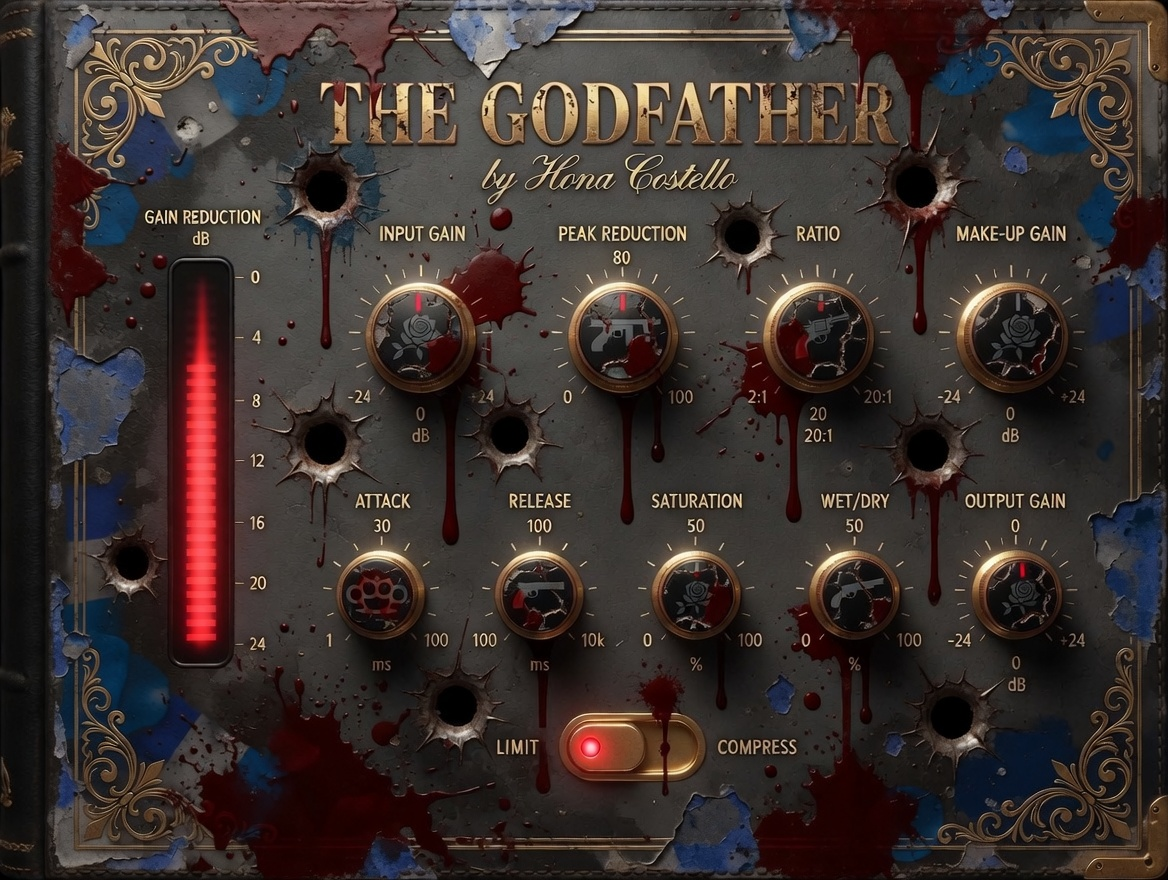
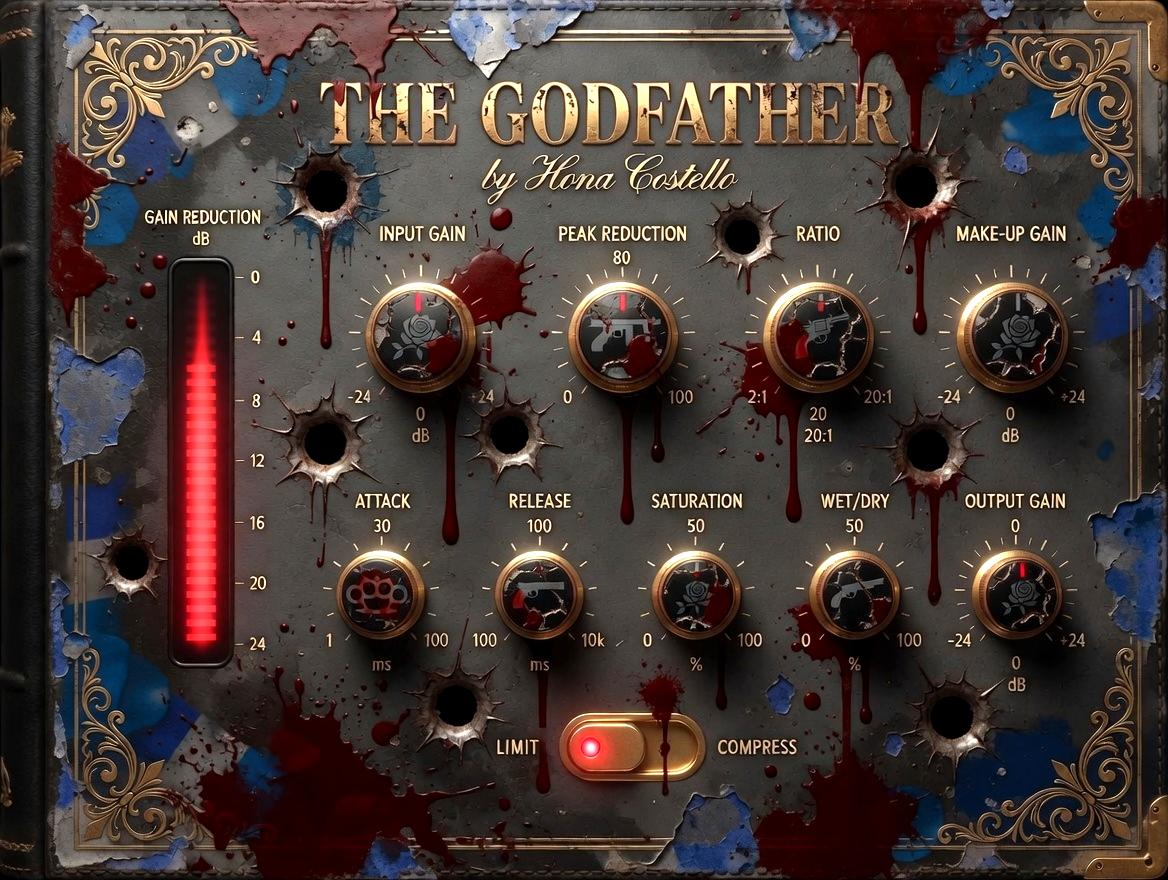
Visual Overhaul: Enhanced skin, perfect knob alignment, and improved indicators

diff --git a/Source/PluginEditor.cpp b/Source/PluginEditor.cpp
@@ -107,19 +107,19 @@ void OpticalCompressorAudioProcessorEditor::resized()
     wetDryLabel.setVisible(false);
     outputGainLabel.setVisible(false);
 
-    // Position sliders over the skin's knobs (Epic Skin coordinates)
-    setBoundsScaled(inputGainSlider, 310, 330, 110, 110);
-    setBoundsScaled(thresholdSlider, 485, 330, 110, 110); // "Peak Reduction"
-    setBoundsScaled(ratioSlider, 655, 330, 110, 110);
-    setBoundsScaled(makeupSlider, 825, 330, 110, 110);
+    // Position sliders over the skin's knobs (Epic Skin coordinates - recalibrated)
+    setBoundsScaled(inputGainSlider, 315, 335, 105, 105);
+    setBoundsScaled(thresholdSlider, 490, 335, 105, 105); // "Peak Reduction"
+    setBoundsScaled(ratioSlider, 660, 335, 105, 105);
+    setBoundsScaled(makeupSlider, 830, 335, 105, 105);
 
-    setBoundsScaled(attackSlider, 280, 640, 100, 100);
-    setBoundsScaled(releaseSlider, 420, 640, 100, 100);
-    setBoundsScaled(saturationSlider, 560, 640, 100, 100);
-    setBoundsScaled(wetDrySlider, 700, 640, 100, 100);
-    setBoundsScaled(outputGainSlider, 840, 640, 100, 100);
+    setBoundsScaled(attackSlider, 285, 645, 95, 95);
+    setBoundsScaled(releaseSlider, 425, 645, 95, 95);
+    setBoundsScaled(saturationSlider, 565, 645, 95, 95);
+    setBoundsScaled(wetDrySlider, 705, 645, 95, 95);
+    setBoundsScaled(outputGainSlider, 845, 645, 95, 95);
 
-    setBoundsScaled(limitButton, 480, 830, 100, 50); // Positioned over the switch
+    setBoundsScaled(limitButton, 485, 835, 90, 45); // Positioned over the switch
     
     // Make sliders transparent to show the skin's knobs
     auto makeTransparent = [](juce::Slider& s) {

diff --git a/Source/PluginEditor.h b/Source/PluginEditor.h
@@ -14,19 +14,22 @@ public:
         auto centreY = (float)y + (float)height * 0.5f;
         auto angle = rotaryStartAngle + sliderPos * (rotaryEndAngle - rotaryStartAngle);
 
-        // Draw a glowing red indicator line
+        // Draw a glowing red indicator line with a gold border
         juce::Path p;
-        auto pointerLength = radius * 0.8f;
-        auto pointerThickness = 3.0f;
-        p.addRectangle(-pointerThickness * 0.5f, -radius, pointerThickness, pointerLength);
+        auto pointerLength = radius * 0.9f;
+        auto pointerThickness = 4.0f;
+        p.addRoundedRectangle(-pointerThickness * 0.5f, -radius, pointerThickness, pointerLength, 2.0f);
         p.applyTransform(juce::AffineTransform::rotation(angle).translated(centreX, centreY));
 
-        g.setColour(juce::Colours::red.withAlpha(0.8f));
+        g.setColour(juce::Colours::gold.withAlpha(0.5f));
+        g.strokePath(p, juce::PathStrokeType(1.0f));
+        
+        g.setColour(juce::Colours::red);
         g.fillPath(p);
         
-        // Add a small glow at the tip
-        g.setColour(juce::Colours::red);
-        g.fillEllipse(centreX + std::sin(angle) * radius * 0.9f - 2, centreY - std::cos(angle) * radius * 0.9f - 2, 4, 4);
+        // Add a bright glow at the tip
+        g.setColour(juce::Colours::white.withAlpha(0.8f));
+        g.fillEllipse(centreX + std::sin(angle) * radius * 0.95f - 1.5f, centreY - std::cos(angle) * radius * 0.95f - 1.5f, 3, 3);
     }
 };
 
